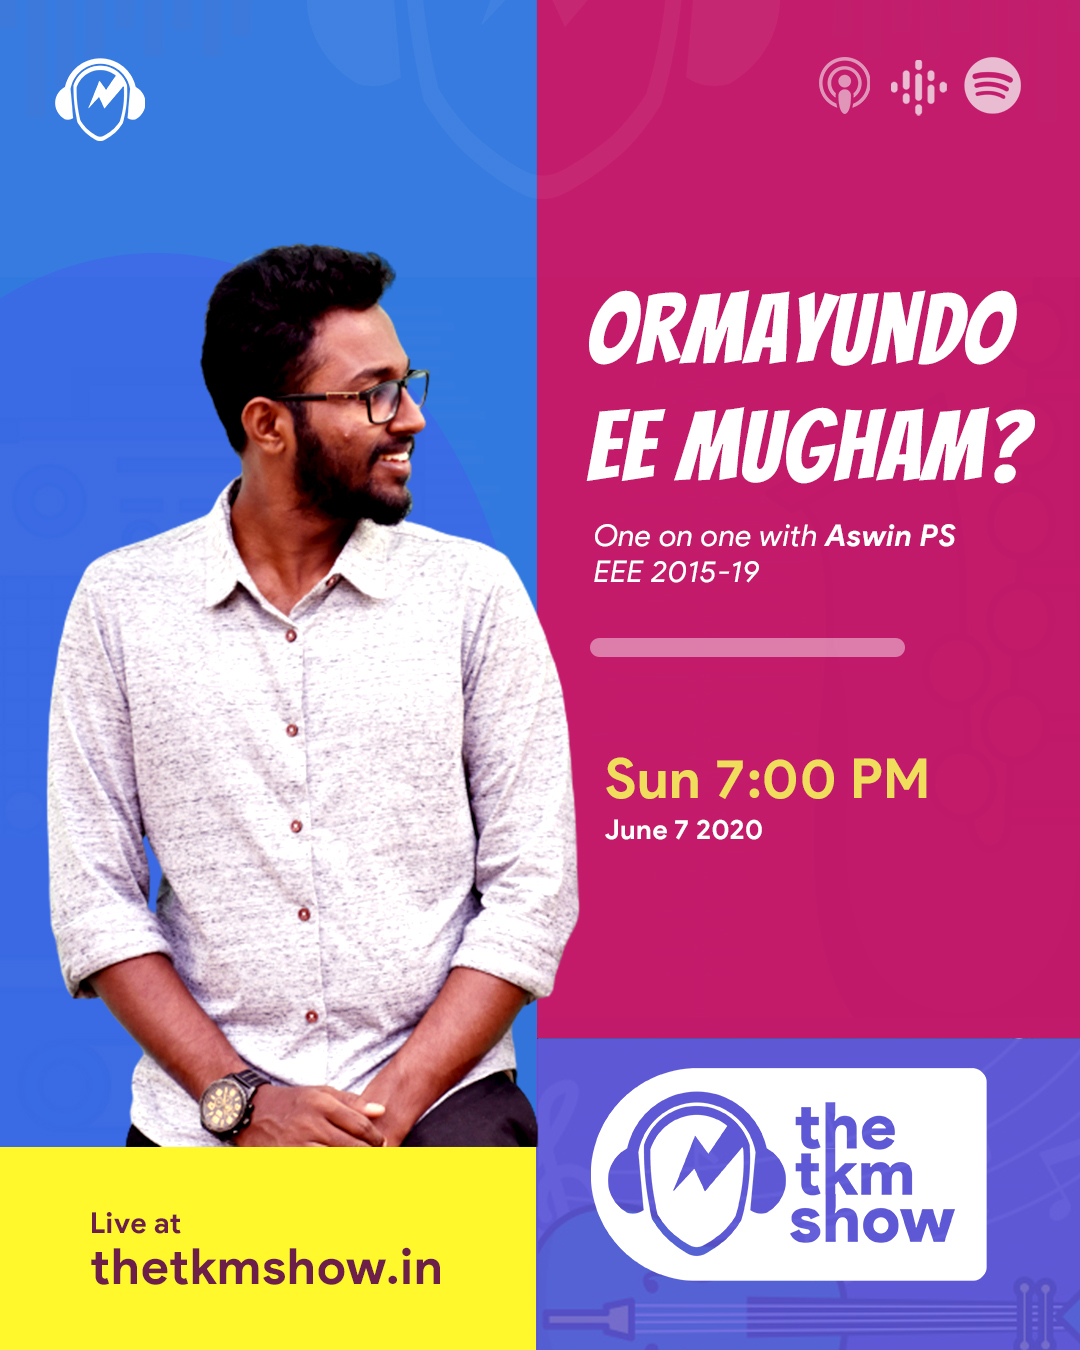
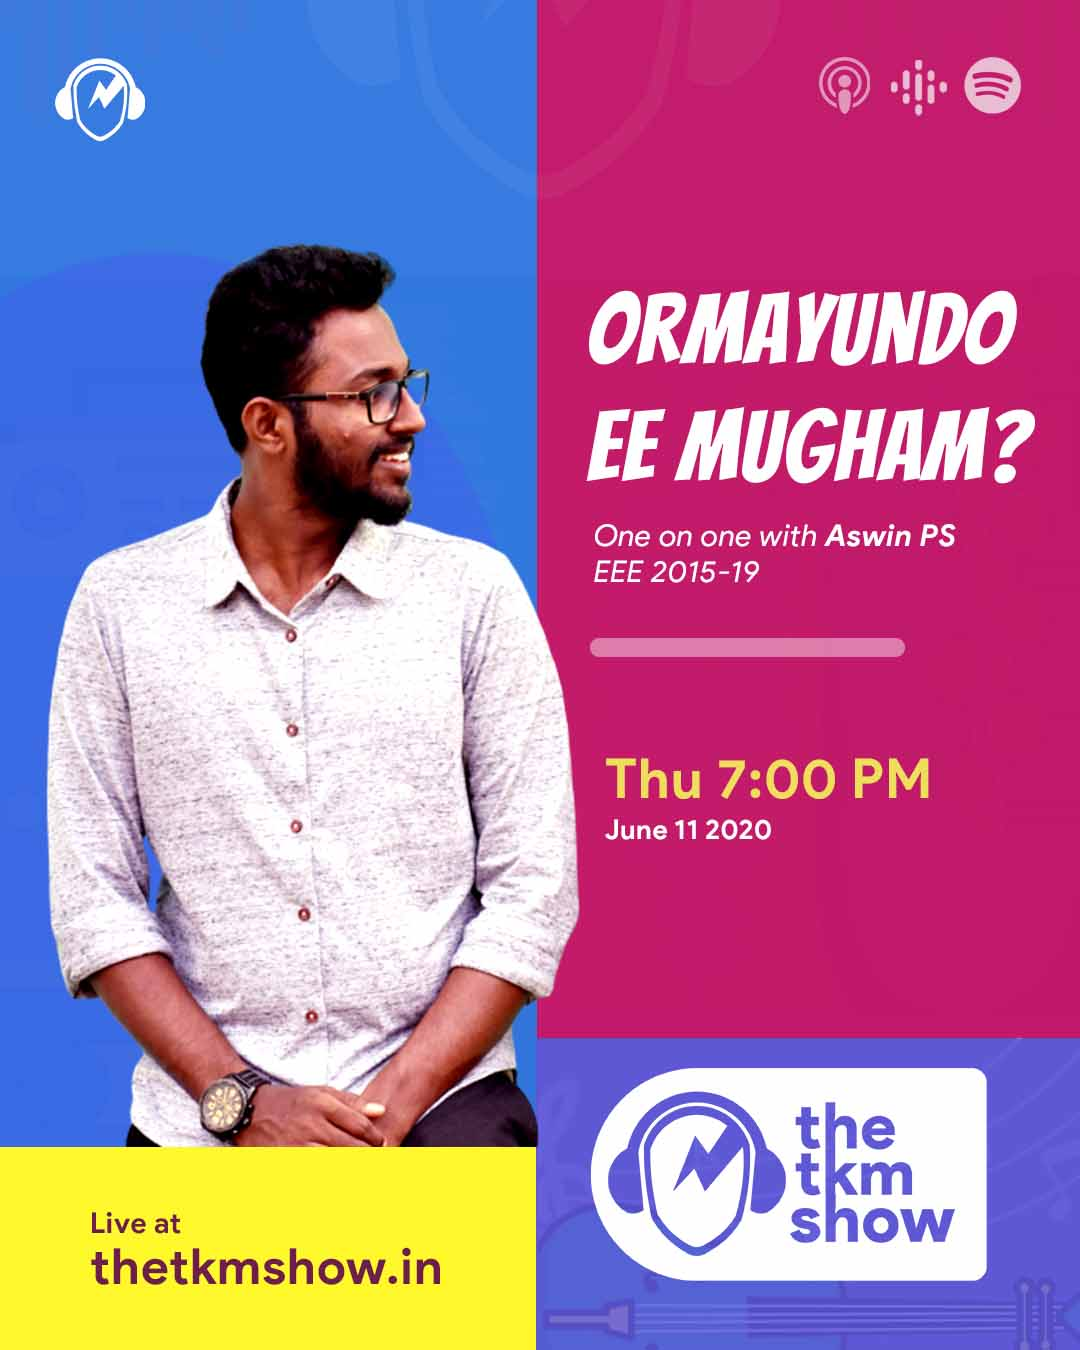
Aswin

diff --git a/src/views/components/RecentPosters.js b/src/views/components/RecentPosters.js
@@ -8,14 +8,14 @@ let eventOneStartTime ="06/15/2020 08:00 AM";
 let eventOneEndTime ="06/15/2020 10:00 AM";
 
 // event Two
-let imageTwo = require('../img/01.jpg');
+let imageTwo = require('../img/aswin8.jpg');
 let eventTwoTitle ="Kamithaakal";
 let eventTwoDescription ="";
 let eventTwoStartTime ="06/15/2020 08:00 AM";
 let eventTwoEndTime ="06/15/2020 10:00 AM";
 
 // event Three
-let imageThree = require('../img/02.jpg');
+let imageThree = require('../img/launch.jpg');
 let eventThreeTitle ="Kamithaakal";
 let eventThreeDescription ="";
 let eventThreeStartTime ="06/15/2020 08:00 AM";

diff --git a/src/views/Home.js b/src/views/Home.js
@@ -44,8 +44,8 @@ const Home = () => {
 
           <Navbar/>
           <Herotext/>
-         
-         {/* <CountDown/> */}
+        
+         <CountDown/>
          {/* <p className="countdown"> Due to the unfortunate and untimely death of a faculty from the Architecture Dept, Prof. Jayakrishnan. We've decided to postpone the first episode of The TKM show which was to be aired today to a later date. We offer our deepest condolences to the family of the deceased.</p> */}
           
          

diff --git a/src/views/components/CountDown.js b/src/views/components/CountDown.js
@@ -24,7 +24,8 @@ render() {
     return (
         
         <Countdown
-        date={'2020-06-07T19:00:00'}
+        date={'2020-06-11T19:00:00'} 
+        // YYYY-MM-DDTHH:MM:SS
         renderer={renderer}
       />
         
